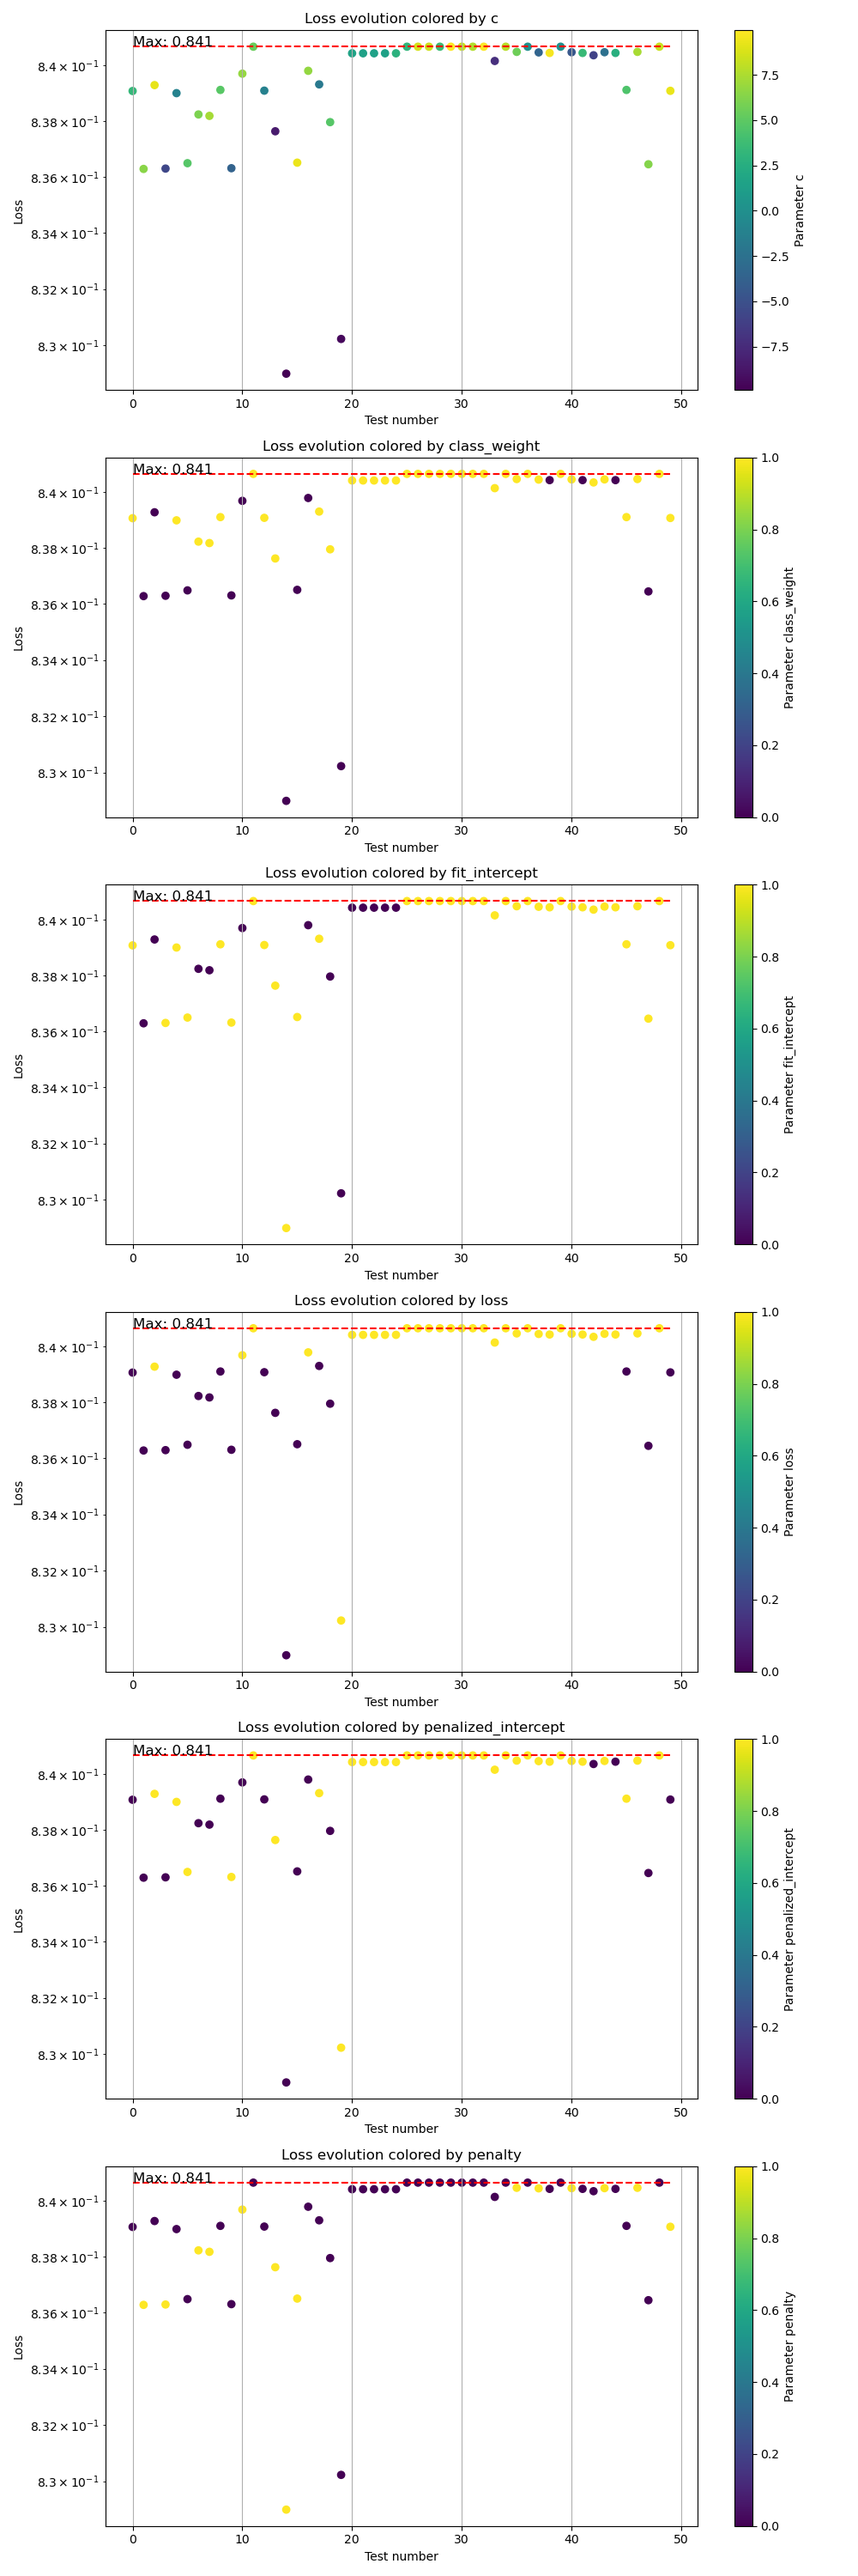
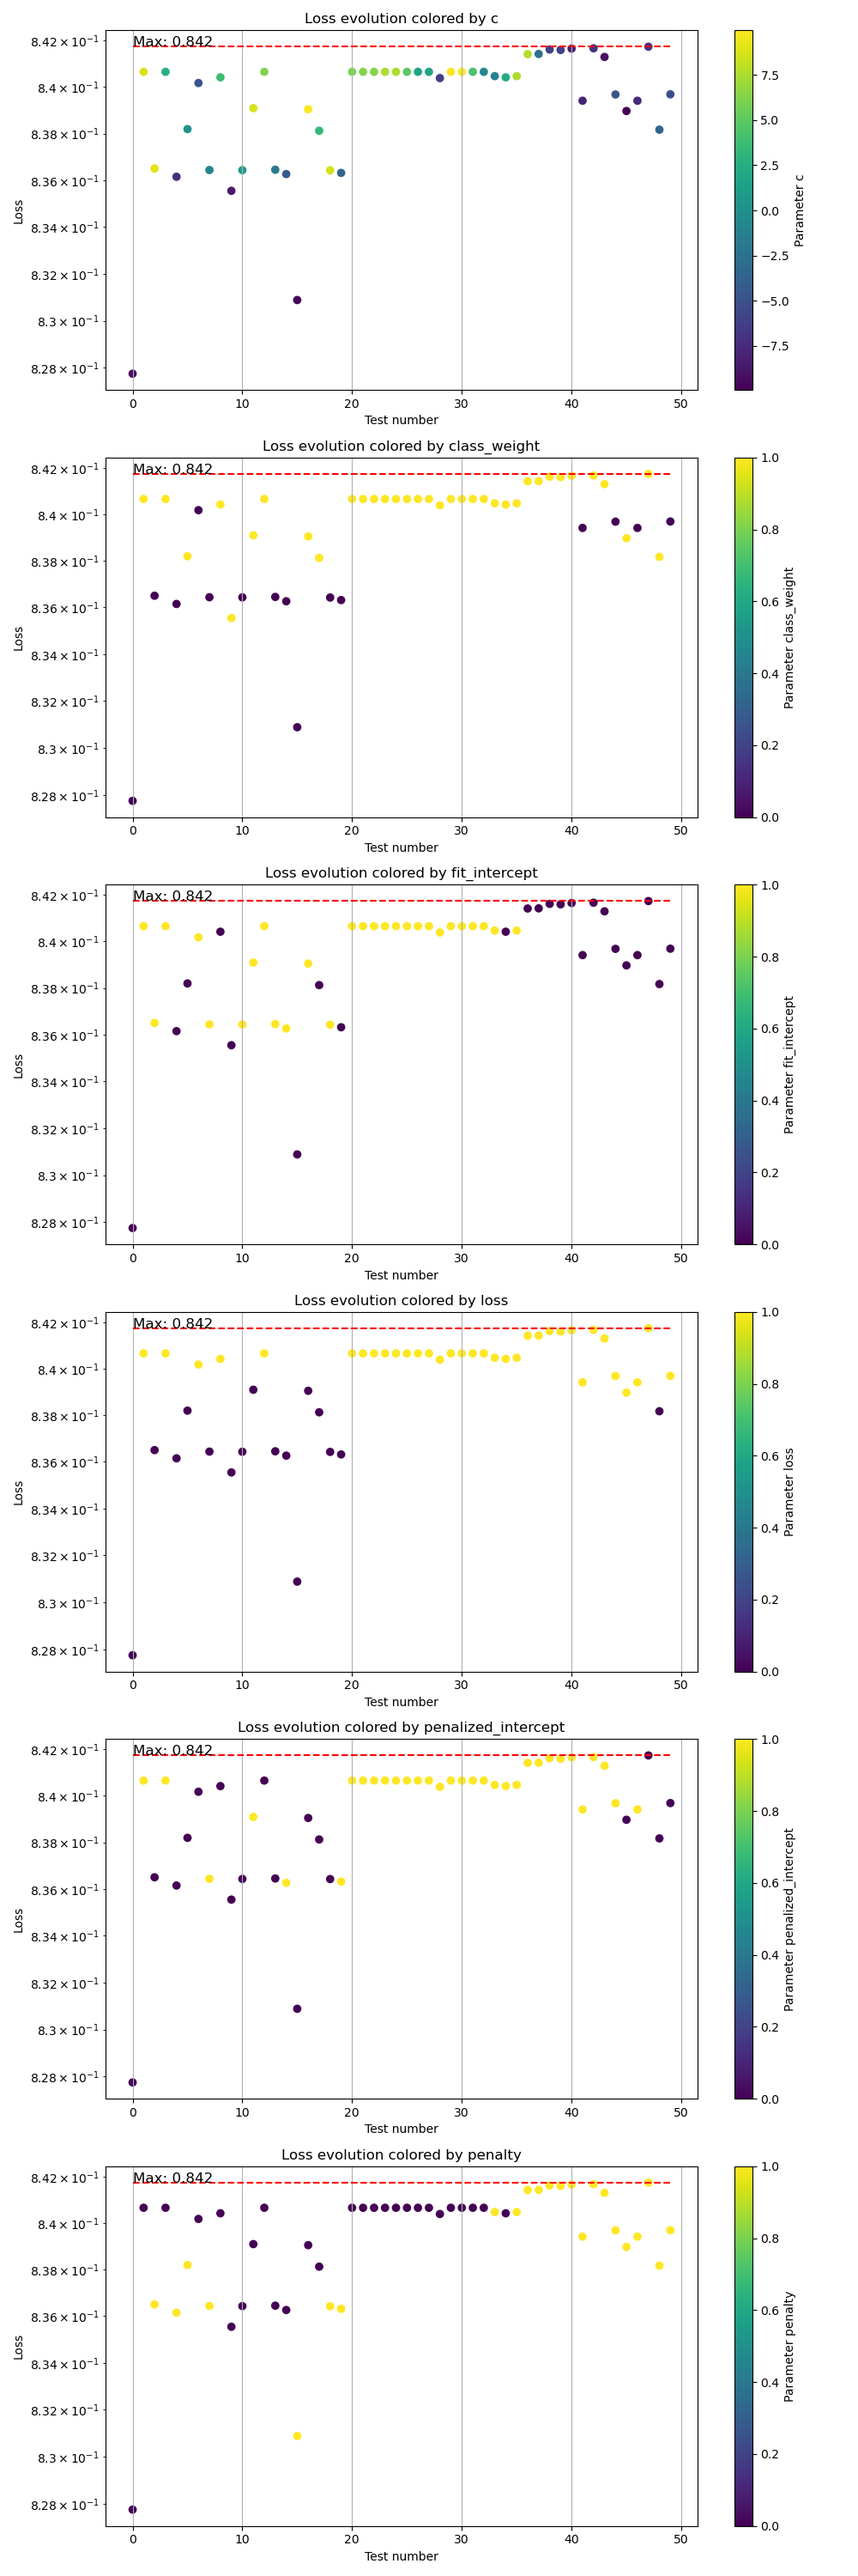
update param search

diff --git a/ml/README.md b/ml/README.md
@@ -11,21 +11,21 @@ conda install tldextract tqdm pymongo matplotlib
 ### Performance
 
 Logistic Regression:
-100%|██████████| 1000/1000 [02:42<00:00,  6.15trial/s, best loss: -0.8254219889640808]
-Best params:  {'c': 59.643464530019735, 'class_weight': 1, 'fit_intercept': 0, 'l1_ratio': 0.20138101954231868, 'penalty': 1, 'tol': 9.246728713170994e-05}
+0.8423968553543091
+Best params:  {'c': 70.24682387842596, 'class_weight': 1, 'fit_intercept': 0, 'l1_ratio': 0.8765034555778022, 'penalty': 0}
 
 Linear SVC:
-100%|██████████| 1000/1000 [11:51<00:00,  1.41trial/s, best loss: -0.8253193497657776]
-Best params:  {'c': 16.381478122844584, 'change_tol': 0.0006360348597608416, 'class_weight': 1, 'fit_intercept': 0, 'grad_tol': 0.00048694202862422303, 'loss': 1, 'penalized_intercept': 0, 'penalty': 0, 'tol': 11.881796519053097}
+0.841742753982544
+Best params:  {'c': 0.0010484883768061676, 'class_weight': 1, 'fit_intercept': 0, 'loss': 1, 'penalized_intercept': 0, 'penalty': 1}
 
 Naive Bayes:
-100%|██████████| 1000/1000 [00:26<00:00, 37.10trial/s, best loss: -0.7135170698165894]
-Best params:  {'alpha': 0.12695561035635183, 'fit_prior': 0}
+0.7152677774429321
+Best params:  {'alpha': 1.1583084259806466}
 
 Nearest Neigbors:
-100%|██████████| 1000/1000 [4:08:21<0:00:00, 15.33s/trial, best loss: -0.9260850548744202]
-Best params:  {'metric': 3, 'n_neighbors': 2}
+0.9478824734687805
+Best params:  {'metric': 13, 'n_neighbors': 1}
 
 Random Forest:
-100%|██████████| 50/50 [02:55<00:00,  3.51s/trial, best loss: -0.7207251787185669]
-Best params:  {'bootstrap': 1, 'max_depth': 0, 'max_samples': 0.24595877227188392, 'min_impurity_decrease': 0.09423017634336195, 'min_samples_leaf': 3, 'min_samples_split': 3, 'n_bins': 0, 'n_estimators': 1}
+0.736885666847229
+Best params:  {'bootstrap': 1, 'max_depth': 2, 'max_samples': 0.6407690956805958, 'min_samples_leaf': 1, 'min_samples_split': 0, 'n_bins': 0, 'n_estimators': 2}
